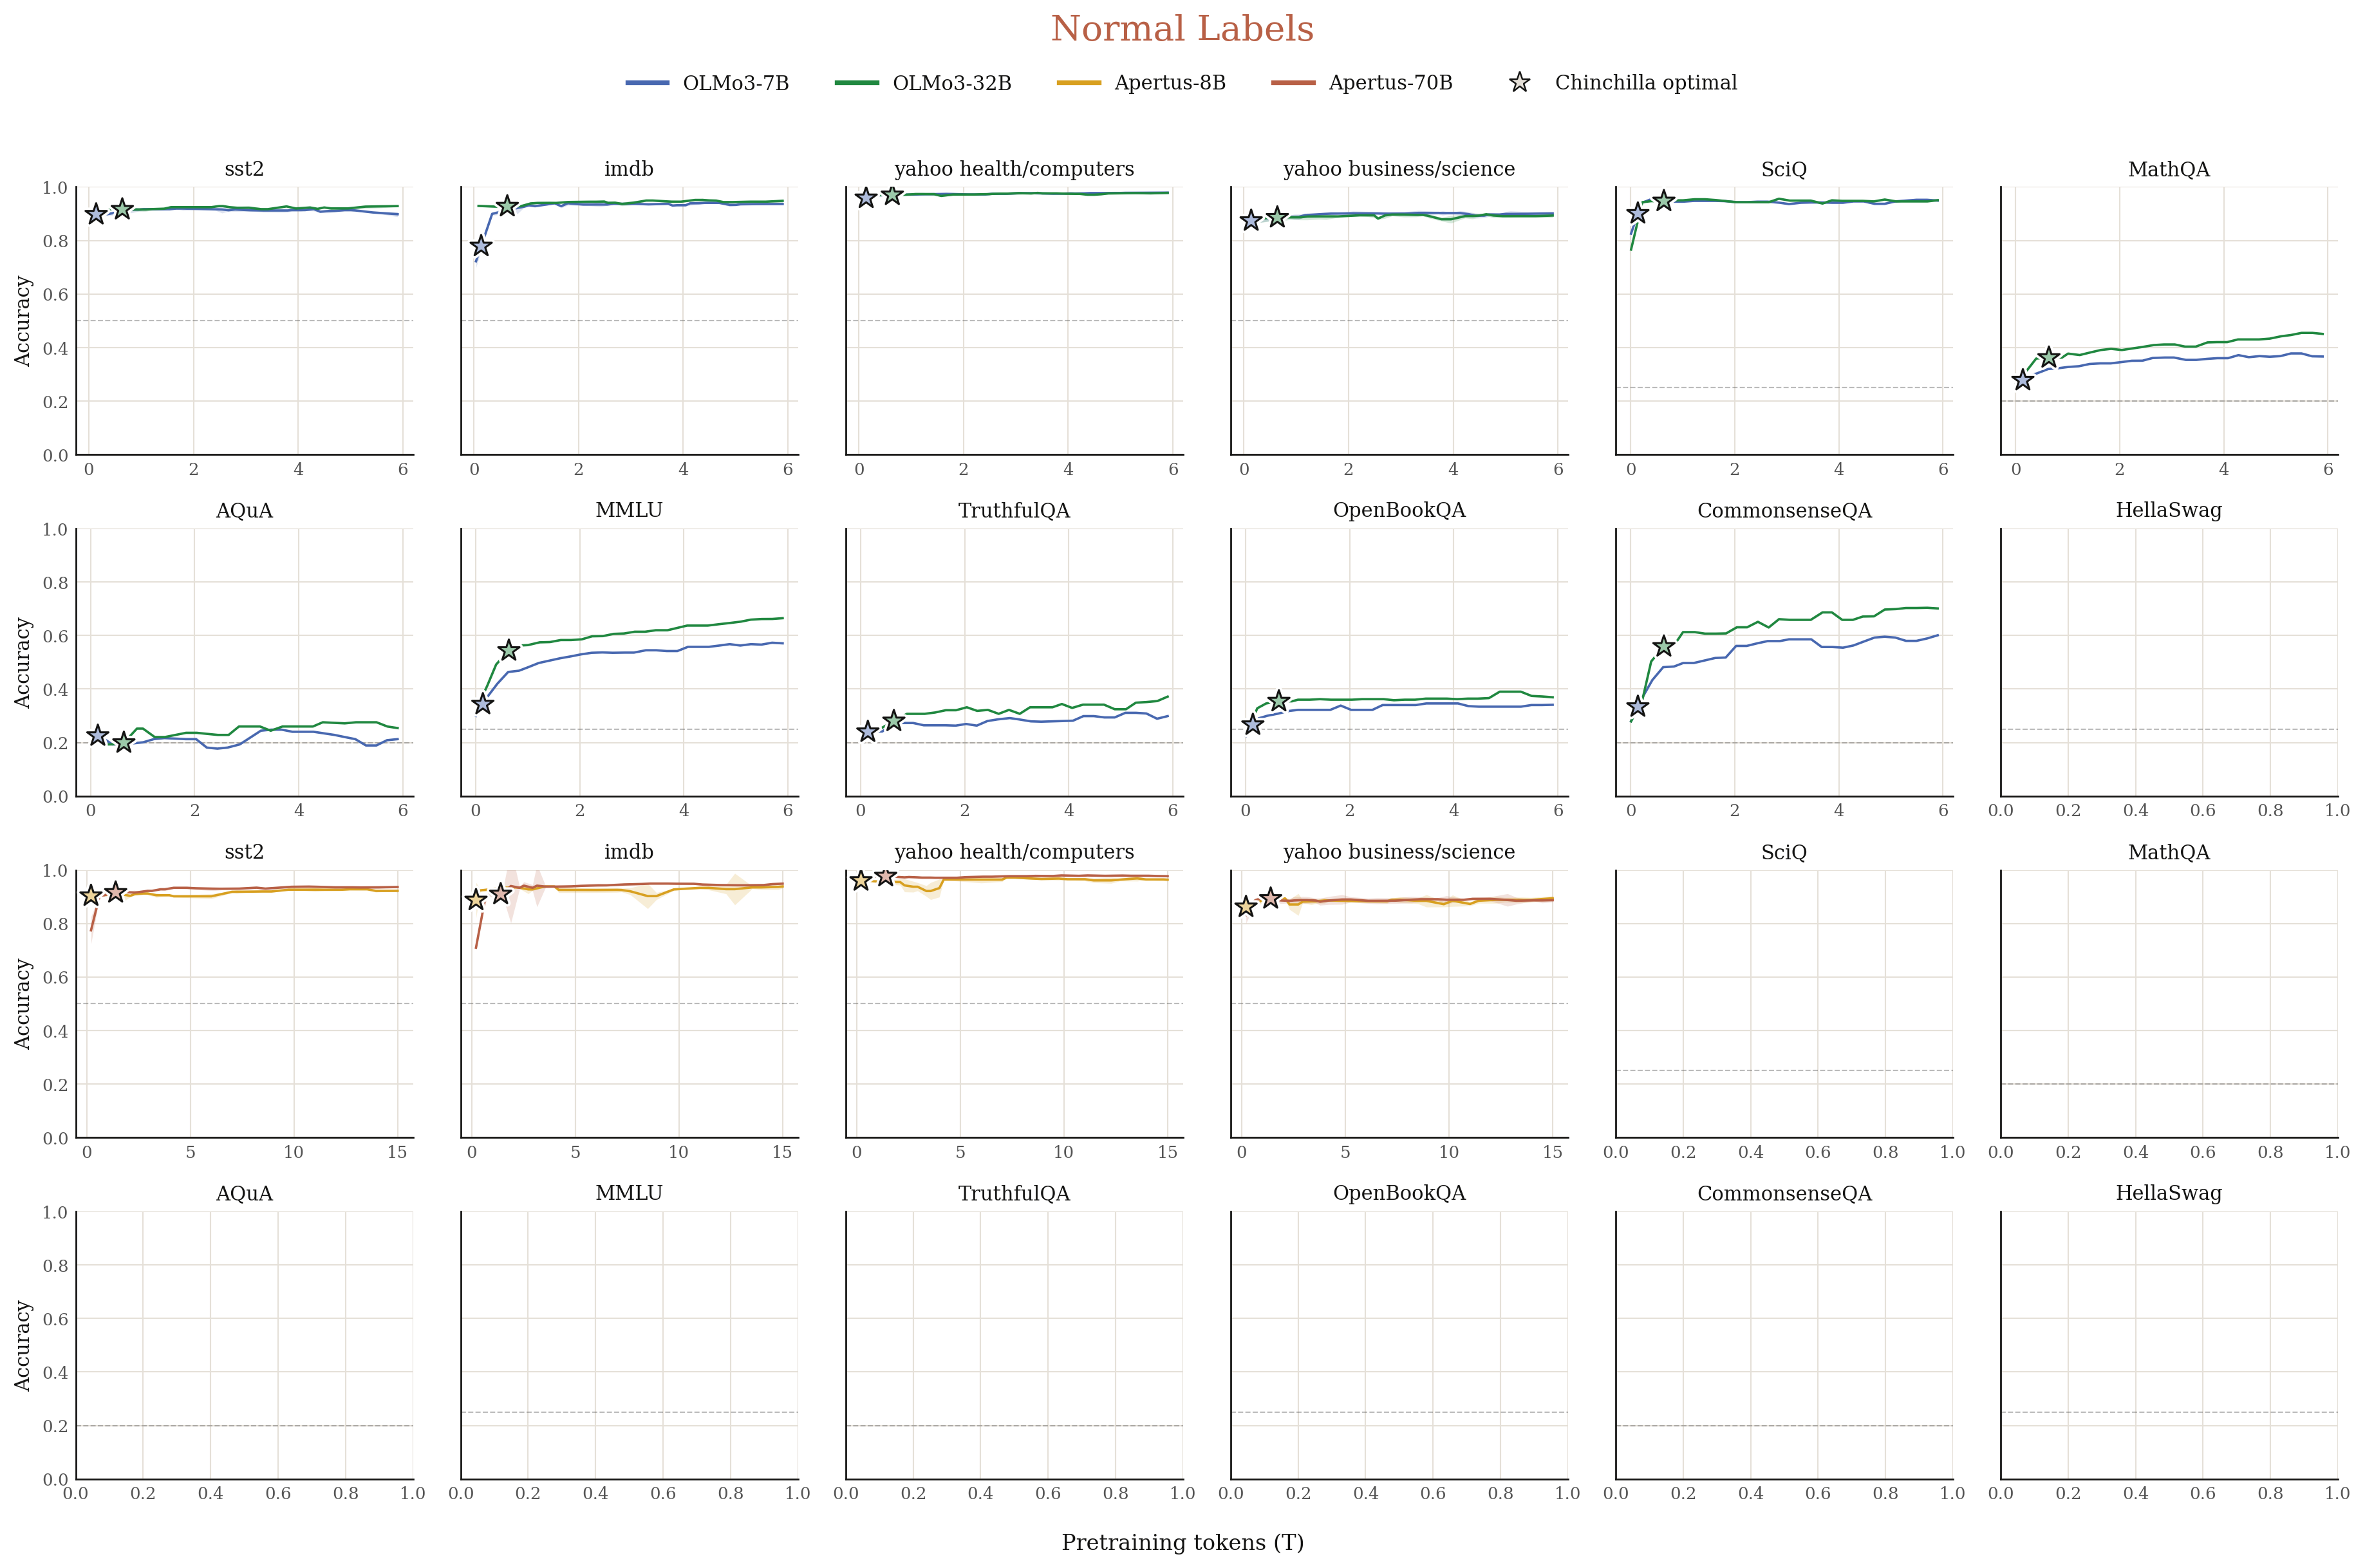
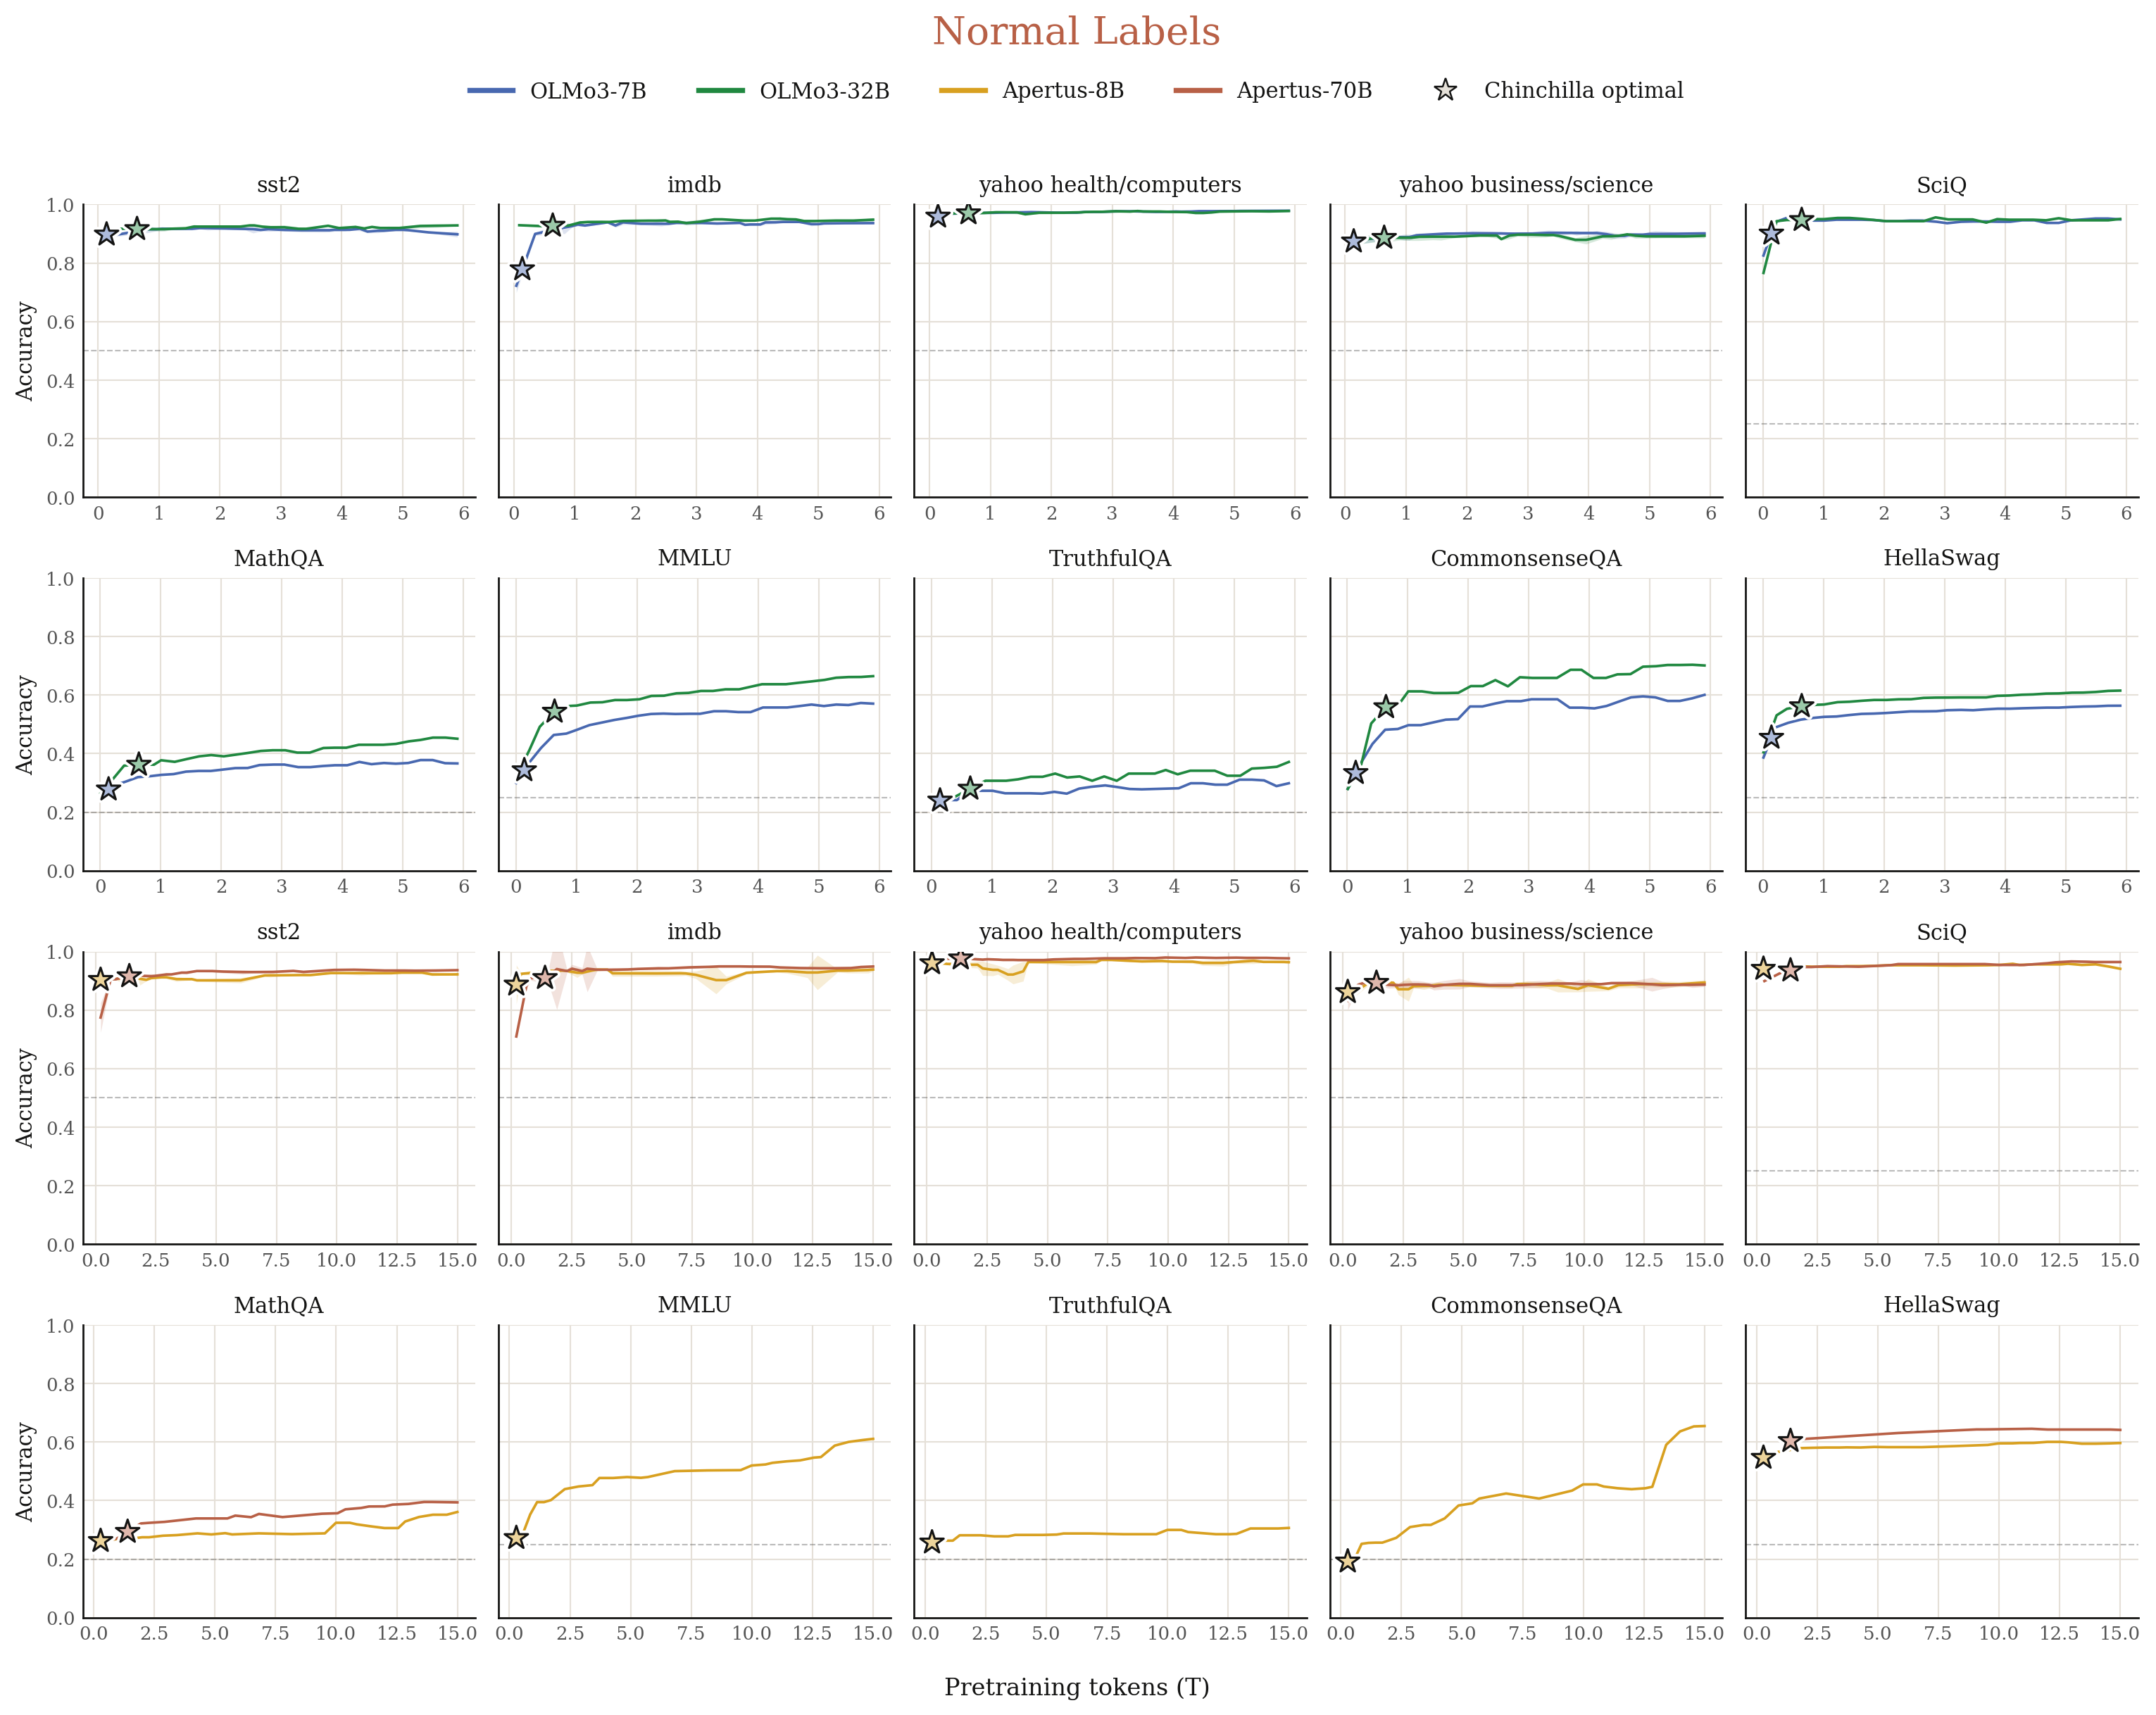
polish: rephrase abstract/intro mode-hopping line, expand 4.1, refresh gold-label figure
- Abstract and section 1: "hop between parrot-like and intelligence-like modes (i.e. distinct algorithms implemented by distinct circuits). We call this mode-hopping."
- Section 4.1: replace "knowledge QA" with "broad QA tasks", add evaluation-setup sentence, rephrase smooth-curve sentence
- Refresh gold-label hard-accuracy PNGs (Figure 9) to the latest render
- Headline figure: bump canvas DPR to 3× browser DPR, shorten inner toggle (min-width 280→190, padding 22→14), and apply zoom: 0.803 to the iframe

diff --git a/blog/generalization-dynamics.html b/blog/generalization-dynamics.html
@@ -209,6 +209,7 @@
         width: 100%; border: 0; display: block;
         background: #ffffff;
       }
+      figure#fig-1 iframe { zoom: 0.803; }
       .fig-card {
         background: #FFFFFF;
         border: 1px solid #E3D8CC;
@@ -227,6 +228,7 @@
         padding: 0 0 8px;
         border-bottom: 1px solid #E3D8CC;
         font-family: "STIX Two Text", Charter, Georgia, serif;
+        zoom: 0.73;
       }
       .fig-toggles.stack { flex-direction: column; align-items: flex-start; gap: 8px; }
       .fig-toggle { display: flex; align-items: center; gap: 6px; }
@@ -426,7 +428,7 @@
 
       <div class="text">
         <h2 id="tldr">Abstract</h2>
-        <p>People typically assume that LMs stably mature from pattern-matching parrots to generalizable intelligence during pre-training. We build a toy eval suite and show this mental model is wrong: throughout pre-training, LMs frequently and suddenly switch between parrots and intelligence. We call this <em>mode-hopping</em>: within windows as short as 2B tokens, models hop between distinct modes, i.e.&nbsp;algorithms implemented by distinct circuits. Across our suite, LMs suddenly latch onto memorized or in-context patterns instead of in-context learning, use System&nbsp;1 instead of System&nbsp;2 thinking, pick up what sounds true instead of what is true, fail at multi-hop persona QA, out-of-context reasoning, and emergent misalignment — then just as suddenly revert and generalize. Mode-hopping is not explained by standard optimization dynamics: it is locally stable and not fixed by checkpoint averaging. We instead think of it as a capacity-allocation problem: in a capacity-bounded model, generalizable circuits must compete with the shallow ones learned early in training, and the data in each window decides which circuits win. Our suite provides a cheap set of pre-training monitors and a new lens on generalization. We demonstrate three applications: (i) select intermediate pre-training checkpoints that strongly generalize reasoning and alignment, better than the final pre- or mid-training checkpoints; (ii) select pre-training data that controls and stabilizes generalization dynamics; and (iii) test metrics that predict generalization. A parrot can look intelligent; stable generalization makes it reliably so. We call for future research on architecture, optimization, and interpretability to tackle this together.</p>
+        <p>People typically assume that LMs stably mature from pattern-matching parrots to generalizable intelligence during pre-training. We build a toy eval suite and show this mental model is wrong: throughout pre-training, LMs frequently and suddenly hop between parrot-like and intelligence-like modes (i.e.&nbsp;distinct algorithms implemented by distinct circuits). We call this <em>mode-hopping</em>. Across our suite, LMs suddenly latch onto memorized or in-context patterns instead of in-context learning, use System&nbsp;1 instead of System&nbsp;2 thinking, pick up what sounds true instead of what is true, fail at multi-hop persona QA, out-of-context reasoning, and emergent misalignment — then just as suddenly revert and generalize. Mode-hopping is not explained by standard optimization dynamics: it is locally stable and not fixed by checkpoint averaging. We instead think of it as a capacity-allocation problem: in a capacity-bounded model, generalizable circuits must compete with the shallow ones learned early in training, and the data in each window decides which circuits win. Our suite provides a cheap set of pre-training monitors and a new lens on generalization. We demonstrate three applications: (i) select intermediate pre-training checkpoints that strongly generalize reasoning and alignment, better than the final pre- or mid-training checkpoints; (ii) select pre-training data that controls and stabilizes generalization dynamics; and (iii) test metrics that predict generalization. A parrot can look intelligent; stable generalization makes it reliably so. We call for future research on architecture, optimization, and interpretability to tackle this together.</p>
       </div>
 
       <figure id="fig-1" class="fig-wide">
@@ -459,7 +461,7 @@ Parrot: 4    Intelligence: 8</div>
 
         <p>People typically imagine that LMs gradually, stably mature from parrots to intelligence during pre-training, learning to latch onto transferable structures and resist shallow patterns. This rests on the well-known dynamics of pre-training loss and downstream benchmark performance (<a class="ref-link" href="#fig-1">Figure 1</a>).</p>
 
-        <p>We find this mental model is wrong: today's LMs frequently and suddenly switch between parrots and intelligence throughout pre-training. We call this phenomenon <em>mode-hopping</em>: within windows as short as 2B pre-training tokens, models hop between distinct modes, i.e.&nbsp;algorithms implemented by distinct circuits. For example, on the above "answer+1" eval, OLMo3&nbsp;32B hits 81% accuracy at 2.17T tokens, collapses to 0% at 2.19T tokens, then rebounds to 81.7% at 2.21T tokens. This is not an outlier. Across models and evals, we see LMs suddenly latch onto memorized or in-context patterns instead of in-context learning, use System&nbsp;1 instead of System&nbsp;2 thinking, pick up what sounds true instead of what is true, fail at multi-hop persona QA, out-of-context reasoning, and emergent misalignment — then just as suddenly revert and generalize.</p>
+        <p>We find this mental model is wrong: throughout pre-training, LMs frequently and suddenly hop between parrot-like and intelligence-like modes (i.e.&nbsp;distinct algorithms implemented by distinct circuits). We call this <em>mode-hopping</em>. For example, on the above "answer+1" eval, OLMo3&nbsp;32B hits 81% accuracy at 2.17T tokens, collapses to 0% at 2.19T tokens, then rebounds to 81.7% at 2.21T tokens. This is not an outlier. Across models and evals, we see LMs suddenly latch onto memorized or in-context patterns instead of in-context learning, use System&nbsp;1 instead of System&nbsp;2 thinking, pick up what sounds true instead of what is true, fail at multi-hop persona QA, out-of-context reasoning, and emergent misalignment — then just as suddenly revert and generalize.</p>
 
         <p>Mode-hopping is not explained by standard optimization dynamics (e.g.&nbsp;edge of stability). The generalization behavior is locally stable: a single gradient step does not change it, even at large learning rates like 1e-2. Weight averaging across consecutive checkpoints can only mitigate but not fix it. Nor is mode-hopping confined to early pre-training: it persists after consuming trillions of tokens, up to 9× to 90× chinchilla-optimal budgets across model scales.</p>
 
@@ -756,7 +758,7 @@ x = <span class="num">-46</span>
         <h2 id="more-analysis">4. Analysis</h2>
 
         <h3 id="sec-4-1">4.1 Null hypothesis: Evaluation Noise</h3>
-        <p>One null hypothesis is that LM performance is oscillated on all evals instead of merely our generalization evals. To rule out this null hypothesis, we run in-context evals on a series of normal datasets, spanning sentiment classification, topic classification, knowledge QA, and math word problems. As shown in <a class="ref-link" href="#fig-9">Figure&nbsp;9</a>, models get a smooth accuracy curve on all evals.</p>
+        <p>One null hypothesis is that LM performance is oscillated on all evals instead of merely our generalization evals. To rule out this null hypothesis, we run in-context evals on a series of normal datasets, spanning sentiment classification, topic classification, math word problems, and broad QA tasks. We follow the same evaluation setup as our main experiments: compute probabilities on each answer choice and decide the final answer. As shown in <a class="ref-link" href="#fig-9">Figure&nbsp;9</a>, LMs have smooth accuracy curves on all evals across pre-training.</p>
       </div>
 
       <figure id="fig-9" class="fig-wide">

diff --git a/blog/figures/pretraining_dynamics.html b/blog/figures/pretraining_dynamics.html
@@ -67,12 +67,12 @@
     padding: 3px; gap: 3px;
   }
   .sw-btn {
-    padding: 6px 22px; border: none; border-radius: 5px;
+    padding: 5px 14px; border: none; border-radius: 5px;
     font-family: 'Patrick Hand', cursive; font-size: 16px; font-weight: 400;
     letter-spacing: .2px; cursor: pointer; white-space: nowrap;
     color: var(--muted); background: transparent;
     transition: background .26s, color .22s;
-    min-width: 280px; text-align: center;
+    min-width: 190px; text-align: center;
   }
   .sw-btn.active {
     background: var(--axis); color: #FFFFFF;
@@ -563,7 +563,7 @@ function lerpData(a, b, t) {
 /* ══════════════════════════════════════
    CANVAS  (CW=348, CH≈181)
 ══════════════════════════════════════ */
-var DPR = Math.min(window.devicePixelRatio || 1, 3);
+var DPR = Math.max(window.devicePixelRatio || 1, 1) * 3;
 var CW  = 240, CH = Math.round(240 * 0.58);
 var PAD = { t: 22, r: 24, b: 32, l: 38 };
 var PW  = CW - PAD.l - PAD.r, PH = CH - PAD.t - PAD.b;